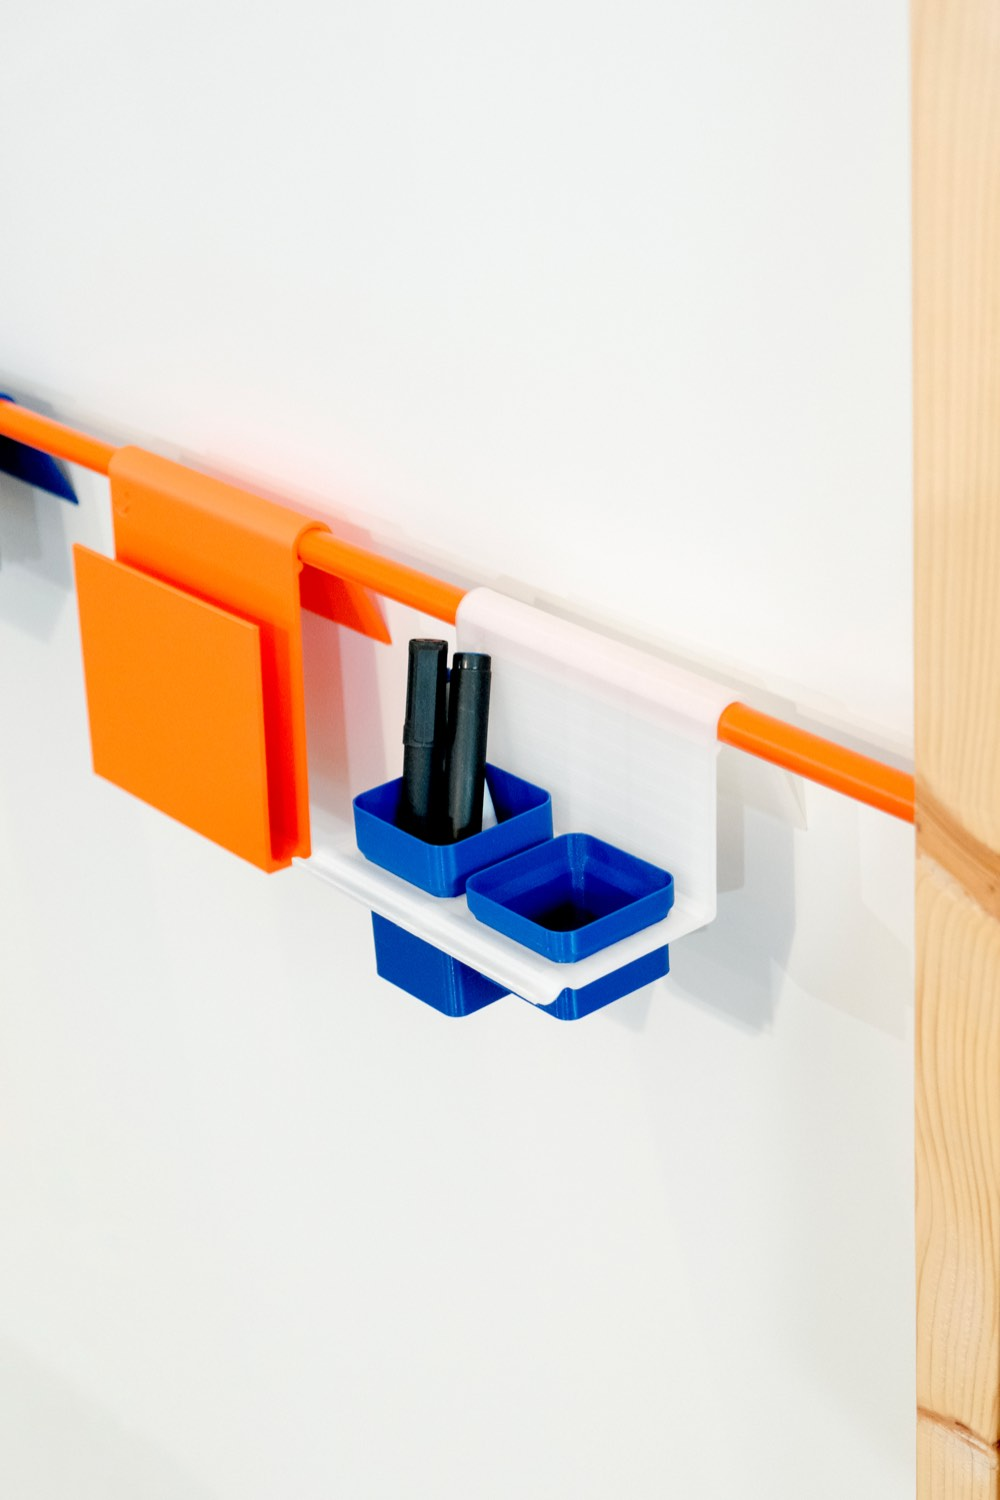
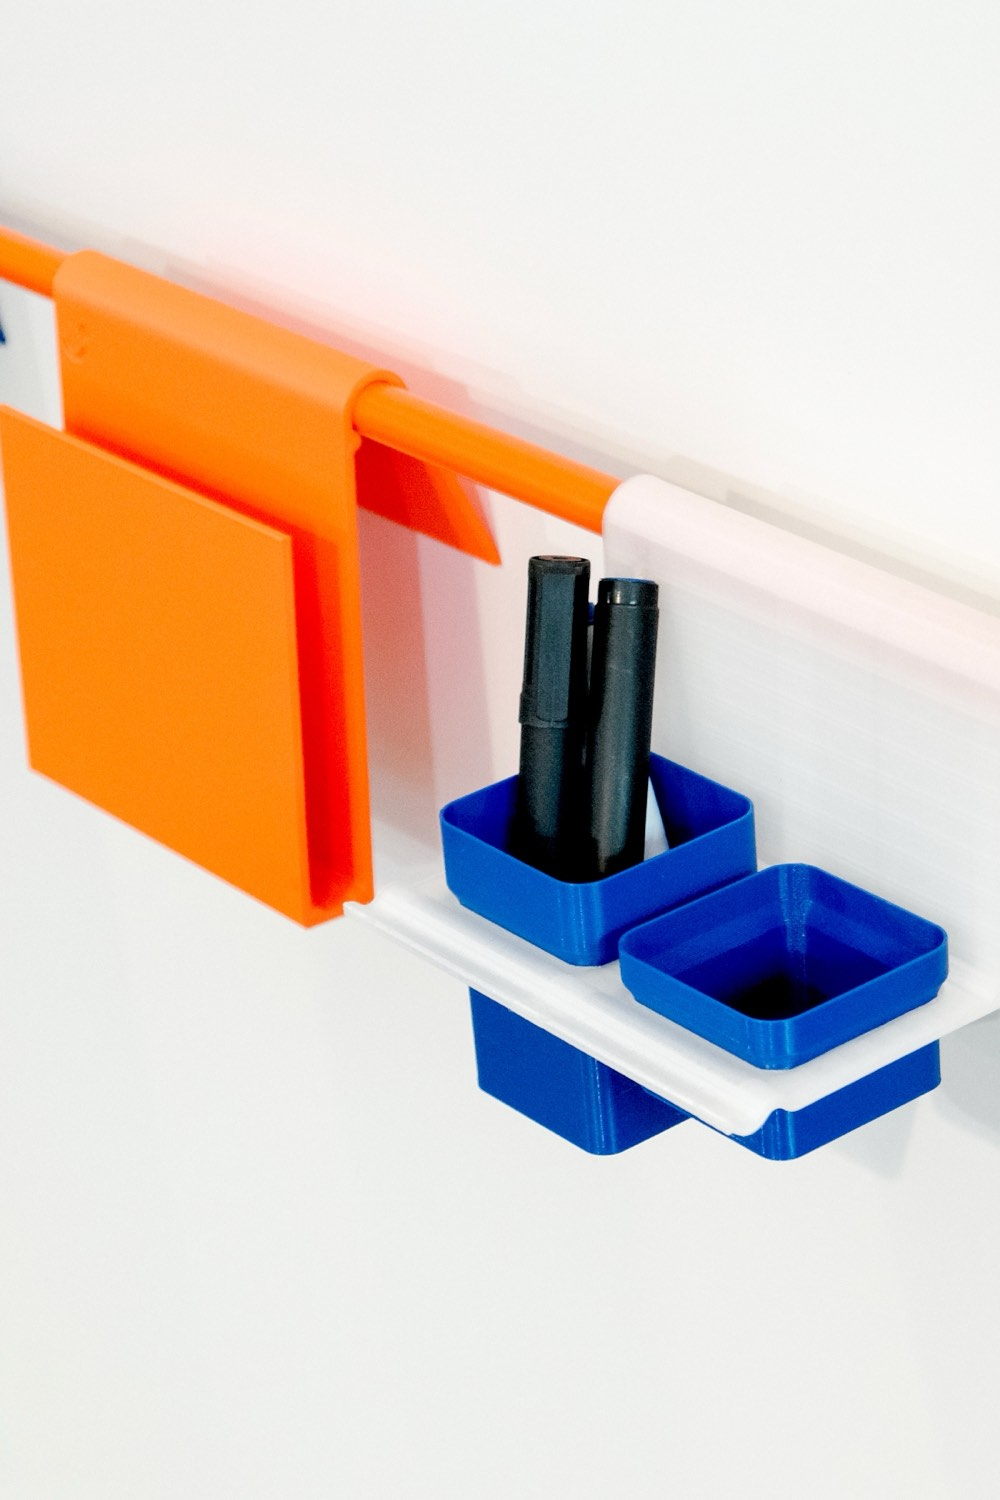
Spectre : nouvelle image Born to be WOOW, cadrage serré sur SURVAL 4 ALL

diff --git a/js/main.js b/js/main.js
@@ -51,7 +51,7 @@
       media: [i('21-10-2025_Portfolio_graphisme10.jpg'), i('21-10-2025_Portfolio_graphisme11.jpg'), i('21-10-2025_Portfolio_graphisme12.jpg')],
     },
     {
-      id: 'born-to-be-woow', year: '2026', role: 'Branding & Retail', cover: { fit: 'contain', bg: '#87cfa8' }, colors: ['#e0628f', '#f7efb7', '#b67c5d'],
+      id: 'born-to-be-woow', year: '2026', role: 'Branding & Retail', colors: ['#e0628f', '#f7efb7', '#b67c5d'],
       title: 'Born to be WOOW', sub: 'WOOW x Krys Group',
       desc: 'Pour les 60 ans de Krys Group, WOOW eyewear est mis à l’honneur à travers un kit PLV vitrine immersif dédié aux années 80. Le dispositif décline bannières, stickers, countercards et présentoirs autour de l’univers pop et coloré initié par <a href="https://designeyeweargroup.com/fr/" target="_blank" rel="noopener">DEGREE Eyewear Group</a> et mis en scène par l’agence <a href="https://www.pigmaparis.com/" target="_blank" rel="noopener">PIGMA Paris</a>.',
       tags: ['retail', 'PLV', 'scénographie', 'vitrine', 'branding', 'identité', 'visualmerchandising'],
@@ -82,7 +82,7 @@
   // image du spectre fournie pour chaque projet (assets/spectre/web : 700, 1000 et 1400 px de large, format 2:3)
   const thumbOf = p => {
     const base = A + 'spectre/web/' + p.id;
-    const v = '?v=2';   // à augmenter quand une image du spectre change
+    const v = '?v=4';   // à augmenter quand une image du spectre change
     return `src="${base}-700.jpg${v}" data-srcset="${base}-700.jpg${v} 700w, ${base}-1000.jpg${v} 1000w, ${base}-1400.jpg${v} 1400w" sizes="(max-width: 900px) 100vw, (hover: none) 60vw, max(28vw, 64vh)"`;
   };
 

diff --git a/index.html b/index.html
@@ -43,8 +43,8 @@
   }
   </script>
   <link rel="preload" href="/assets/fonts/archivo-latin.woff2" as="font" type="font/woff2" crossorigin>
-  <link rel="stylesheet" href="css/fonts.css?v=4.7">
-  <link rel="stylesheet" href="css/style.css?v=4.7">
+  <link rel="stylesheet" href="css/fonts.css?v=4.8">
+  <link rel="stylesheet" href="css/style.css?v=4.8">
 </head>
 <body class="is-loading">
 
@@ -200,6 +200,6 @@
     </section>
   </main>
 
-  <script src="js/main.js?v=4.7"></script>
+  <script src="js/main.js?v=4.9"></script>
 </body>
 </html>
